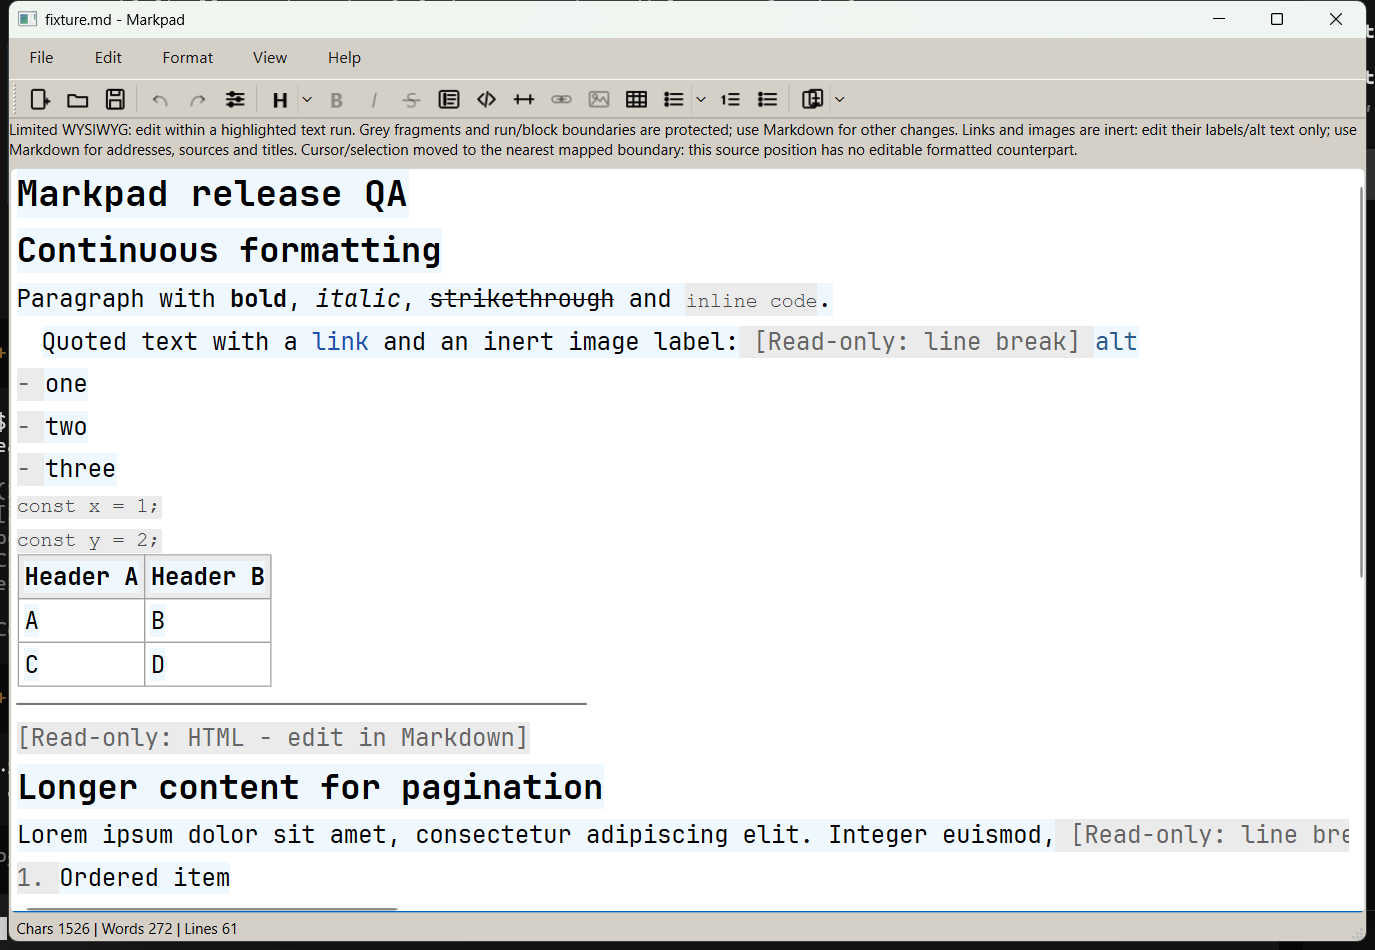
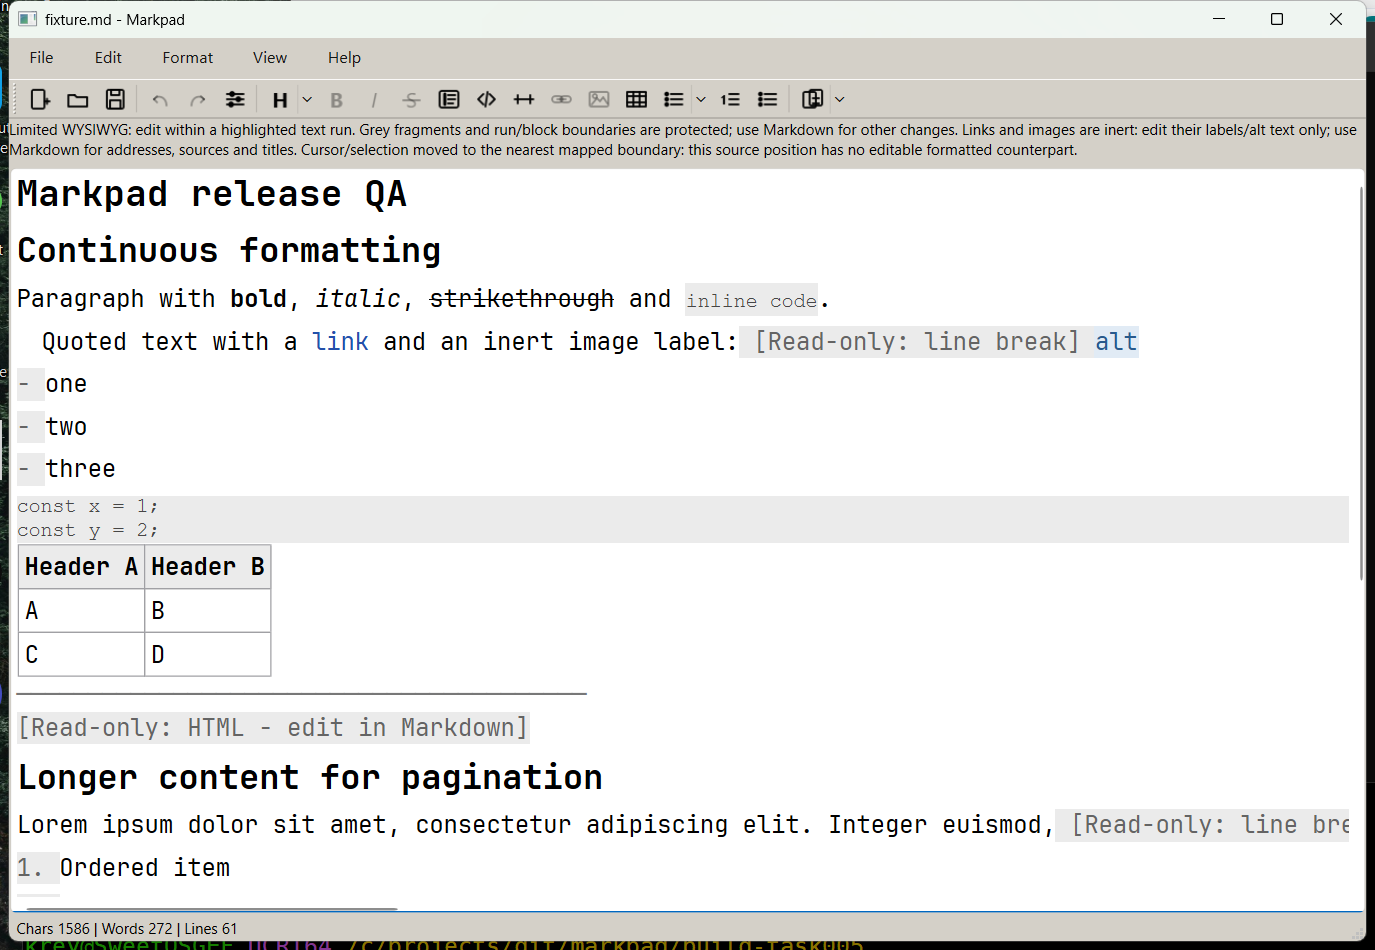
Improve WYSIWYG block backgrounds and table fit
Remove the persistent editable-run highlight, render code blocks with a continuous block background, constrain table columns and use viewport width in continuous mode. Add regression coverage and light/dark/wide-table evidence.

diff --git a/src/continuous_editor.cc b/src/continuous_editor.cc
@@ -72,10 +72,6 @@ QColor mutedBackground(const QPalette& palette) {
   return darkPalette(palette) ? QColor(62, 62, 62) : QColor(235, 235, 235);
 }
 
-QColor editableBackground(const QPalette& palette) {
-  return darkPalette(palette) ? QColor(38, 64, 88) : QColor(240, 248, 255);
-}
-
 QColor codeForeground(const QPalette& palette) {
   return darkPalette(palette) ? QColor(225, 225, 225) : QColor(70, 70, 70);
 }
@@ -117,6 +113,23 @@ void applyHeadingStyle(QTextCharFormat& format, const WysiwygStyle& style,
   format.setFontWeight(style.headingBold ? QFont::Bold : QFont::Normal);
   format.setFontPointSize(std::clamp(
       style.headingSizes[size_t(std::clamp(level, 1, 6) - 1)], 6, 96));
+}
+
+void applyCodeBlockBackground(QTextCursor cursor, int start, int end,
+                              const QColor& color) {
+  auto* document = cursor.document();
+  for (auto block = document->findBlock(start);
+       block.isValid() && block.position() < end; block = block.next()) {
+    auto format = block.blockFormat();
+    format.setBackground(color);
+    format.setTopMargin(0);
+    format.setBottomMargin(block.next().isValid() &&
+                                   block.next().position() < end
+                               ? 0
+                               : 8);
+    QTextCursor blockCursor(block);
+    blockCursor.setBlockFormat(format);
+  }
 }
 
 std::optional<QString> codeDisplay(const QByteArray& bytes) {
@@ -170,6 +183,7 @@ ContinuousEditor::ContinuousEditor(QWidget* parent)
   notice_->setWordWrap(true);
   notice_->setObjectName(QStringLiteral("continuousNotice"));
   editor_->setObjectName(QStringLiteral("continuousEditor"));
+  editor_->setHorizontalScrollBarPolicy(Qt::ScrollBarAsNeeded);
   layout->addWidget(notice_);
   layout->addWidget(editor_);
   editor_->installEventFilter(this);
@@ -273,6 +287,8 @@ void ContinuousEditor::renderCodeBlock(size_t index, QTextCursor& cursor,
   format.setToolTip(QStringLiteral(
       "Editable fenced code body; fences and info string are protected."));
   cursor.insertText(*display, format);
+  applyCodeBlockBackground(cursor, start, cursor.position(),
+                           codeBackground(palette));
   codeRuns_.push_back({index, start, int(display->size())});
   contexts_.push_back(
       {start, cursor.position(), {}, {}, index, list, quote});
@@ -310,6 +326,13 @@ void ContinuousEditor::renderTable(size_t index, QTextCursor& cursor, int depth)
   tableFormat.setCellSpacing(0);
   tableFormat.setCellPadding(4);
   tableFormat.setWidth(QTextLength(QTextLength::PercentageLength, 100));
+  QList<QTextLength> columnConstraints;
+  const auto columnWidth = 100.0 / double(source.columns);
+  for (size_t column = 0; column < source.columns; ++column) {
+    columnConstraints.append(
+        QTextLength(QTextLength::PercentageLength, columnWidth));
+  }
+  tableFormat.setColumnWidthConstraints(columnConstraints);
   auto* table =
       cursor.insertTable(int(rows), int(source.columns), tableFormat);
   const auto fillRow = [&](const markdown::TableRowSource& row, int rowIndex,
@@ -579,7 +602,6 @@ void ContinuousEditor::renderInline(size_t index, QTextCursor& cursor,
       text = QStringLiteral(" [Read-only: line break] ");
     }
   } else {
-    format.setBackground(editableBackground(palette));
     if (format.toolTip().isEmpty()) {
       format.setToolTip(QStringLiteral("Editable text run"));
     }

diff --git a/tests/smoke_test.cc b/tests/smoke_test.cc
@@ -17,6 +17,7 @@
 #include <QTextBlock>
 #include <QTextCursor>
 #include <QTextEdit>
+#include <QTextFormat>
 #include <QTextLayout>
 #include <QTextTable>
 #include <QToolBar>
@@ -1460,6 +1461,7 @@ class MainWindowSmokeTest : public QObject {
     QVERIFY(table);
     QCOMPARE(table->rows(), 3);
     QCOMPARE(table->columns(), 3);
+    QCOMPARE(table->format().columnWidthConstraints().size(), 3);
     auto header = table->cellAt(0, 0).firstCursorPosition();
     QVERIFY(header.charFormat().fontWeight() >= QFont::Bold);
     QCOMPARE(table->cellAt(0, 0).firstCursorPosition().blockFormat().alignment(),
@@ -1940,10 +1942,14 @@ class MainWindowSmokeTest : public QObject {
     auto* rich = window->continuousEditor()->editor();
     auto cursor = rich->document()->find(QStringLiteral("alpha"));
     QVERIFY(!cursor.isNull());
-    QVERIFY(cursor.charFormat().background().color().lightness() < 128);
+    QVERIFY(!cursor.charFormat().hasProperty(QTextFormat::BackgroundBrush));
     cursor = rich->document()->find(QStringLiteral("code"));
     QVERIFY(!cursor.isNull());
     QVERIFY(cursor.charFormat().background().color().lightness() < 128);
+    QVERIFY(rich->document()
+                ->findBlock(cursor.position())
+                .blockFormat()
+                .hasProperty(QTextFormat::BackgroundBrush));
     QTextTable* table = nullptr;
     for (auto* frame : rich->document()->rootFrame()->childFrames()) {
       if ((table = dynamic_cast<QTextTable*>(frame))) {

diff --git a/src/page_text_edit.cc b/src/page_text_edit.cc
@@ -15,6 +15,7 @@ PageTextEdit::PageTextEdit(QWidget* parent) : QTextEdit(parent) {
   setAcceptRichText(false);
   connect(document(), &QTextDocument::contentsChanged, this,
           [this] { viewport()->update(); });
+  updatePageWidth();
 }
 
 void PageTextEdit::setPaged(bool paged) {
@@ -31,7 +32,10 @@ void PageTextEdit::setPageSetup(const PageSetup& setup) {
 
 void PageTextEdit::updatePageWidth() {
   if (!paged_) {
-    document()->setTextWidth(-1);
+    const auto width = viewport()->width() - 2.0 * document()->documentMargin();
+    if (width > 0.0) {
+      document()->setTextWidth(width);
+    }
     return;
   }
   const auto page = PageLayoutEngine::pageSize(setup_);

diff --git a/docs/tasks/task_046.md b/docs/tasks/task_046.md
@@ -2,7 +2,7 @@
 
 ## Статус и владелец
 
-- Статус: `Ready`.
+- Статус: `Done`.
 - Владелец: архитектор/координатор; `cpp-developer`, `test-writer`, при необходимости
   `frontend-designer`.
 - Приоритет: P1 (release blocker по owner QA).
@@ -91,4 +91,15 @@ GUI-тестами и screenshots; если fit таблицы требует и
 
 ## Итог выполнения
 
-Ожидает реализации.
+- Убран постоянный light-blue background у editable text; protected fragments
+  остаются визуально отличимыми.
+- Code block получил block-level background и нулевые межстрочные margins;
+  blank lines и строки кода теперь образуют единый блок в light/dark.
+- Таблицам заданы процентные column width constraints; continuous mode
+  использует ширину viewport, добавлен horizontal scrollbar как fallback.
+  Широкая 4-column fixture полностью видна.
+- `continuousDarkThemeColors` проверяет отсутствие постоянного фона и наличие
+  block background у code; table test проверяет column constraints.
+- Windows Debug/Release CTest 7/7. Evidence: обновлённые light/dark screenshots и
+  `docs/qa/task_011/table-wide/continuous.png`.
+- Ветка `feature/task_046`; paged page-sheet layout остаётся Task 044.

diff --git a/docs/release_checklist.md b/docs/release_checklist.md
@@ -96,7 +96,9 @@ owner re-review required (`dark/menu.png`, `dark/settings.png`).
 
 ### Continuous WYSIWYG
 
-Tracking: [Task 046](tasks/task_046.md).
+Tracking: [Task 046](tasks/task_046.md). Status: fixed on `feature/task_046`;
+owner re-review required (`continuous.png`, `dark/continuous.png`,
+`table-wide/continuous.png`).
 
 1. The common text is written on light blue background, it looks unnecessary and distracting. Keep the default background color (white in light mode and dark in dark mode).
 2. Code blocks are not shown as a blocks: exists white lines between the code lines. Let it be visually distinct with a proper block background.
@@ -105,7 +107,9 @@ Tracking: [Task 046](tasks/task_046.md).
 ### Paged WYSIWYG
 
 Tracking: [Task 044](tasks/task_044.md), with shared visual fixes from
-[Task 045](tasks/task_045.md) and [Task 046](tasks/task_046.md).
+[Task 045](tasks/task_045.md) and [Task 046](tasks/task_046.md). Status:
+background/code/table-fit shared issues fixed on `feature/task_046`; real page
+layout still blocked by Task 044.
 
 1. Page layout does not match the expected output. Each page must be seen as a page. Take a look to the Microsoft Word or PDF rendering as a reference for the expected layout.
 2. The same issues observed in Continuous WYSIWYG (background color, code block rendering, table width) also affect Paged WYSIWYG and must be addressed consistently.

diff --git a/docs/tasks/README.md b/docs/tasks/README.md
@@ -51,7 +51,7 @@
 | 043 | Настройки типографики WYSIWYG | Done | 005, 009; per-block controls на Page |
 | 044 | Настоящая редактируемая постраничная поверхность | Ready | 005, 006, 043, 045, 046; выбран incremental page sheets |
 | 045 | Dark theme: меню и Settings readability | Done | 009; owner QA; non-native menu + dark QSS |
-| 046 | WYSIWYG backgrounds, code blocks и table fit | Ready | 005, 006, 043 |
+| 046 | WYSIWYG backgrounds, code blocks и table fit | Done | 005, 006, 043; shared renderer |
 | 047 | PDF export layout parity | Blocked | 044, 046; ждёт page surface |
 | 048 | Toolbar actions и dropdown menus | Ready | 004, 032 |
 | 049 | Shortcut settings: actions/defaults | Ready | 009 |

diff --git a/docs/qa/task_011/README.md b/docs/qa/task_011/README.md
@@ -21,6 +21,7 @@ These screenshots were captured from the Windows portable Release package on Win
 | `release-qa/saved-copy.md` | Byte-identical copy produced through native Save As. |
 | `release-qa/unsaved-close.png` | Native unsaved-changes confirmation with Save/Discard/Cancel. |
 | `release-qa/close-save.md` | File written by choosing Save from the native close prompt. |
+| `table-wide/continuous.png` | Wide 4-column table fitting the continuous WYSIWYG viewport after Task 046. |
 
 ## Findings and follow-up
 

diff --git a/docs/qa/task_011/table-wide.md b/docs/qa/task_011/table-wide.md
@@ -1,0 +1,6 @@
+# Wide table fixture
+
+| Column one with a long heading | Column two with a long heading | Column three with a long heading | Column four with a long heading |
+| --- | --- | --- | --- |
+| a long value that should wrap inside the first column | another long value for the second column | another long value for the third column | another long value for the fourth column |
+| short | short | short | short |
